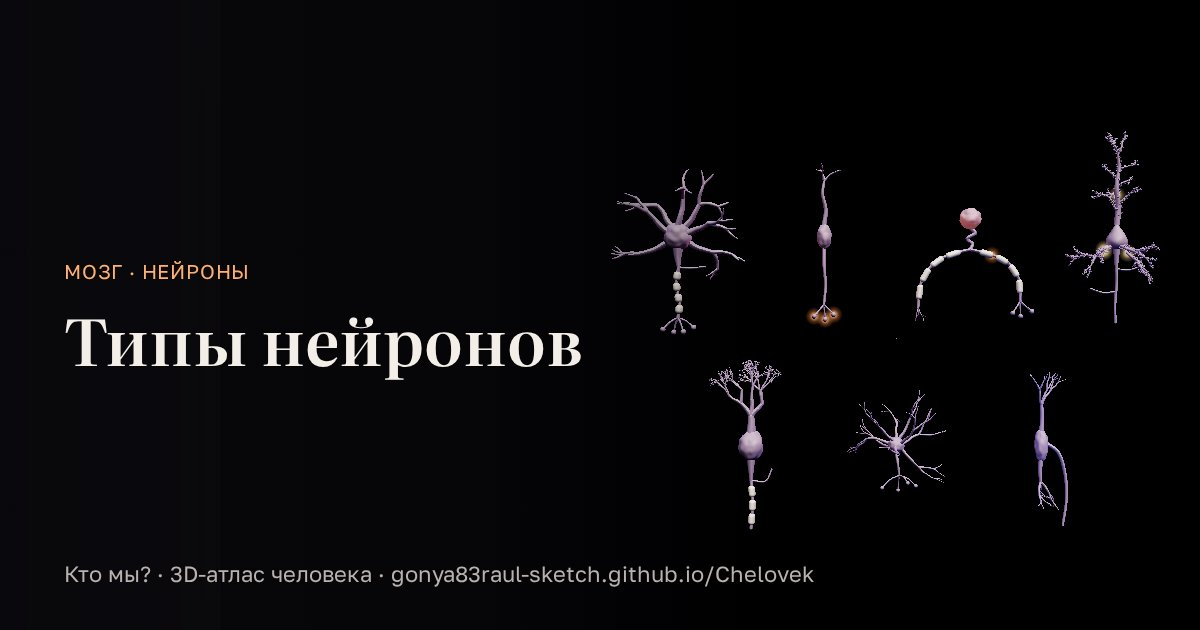
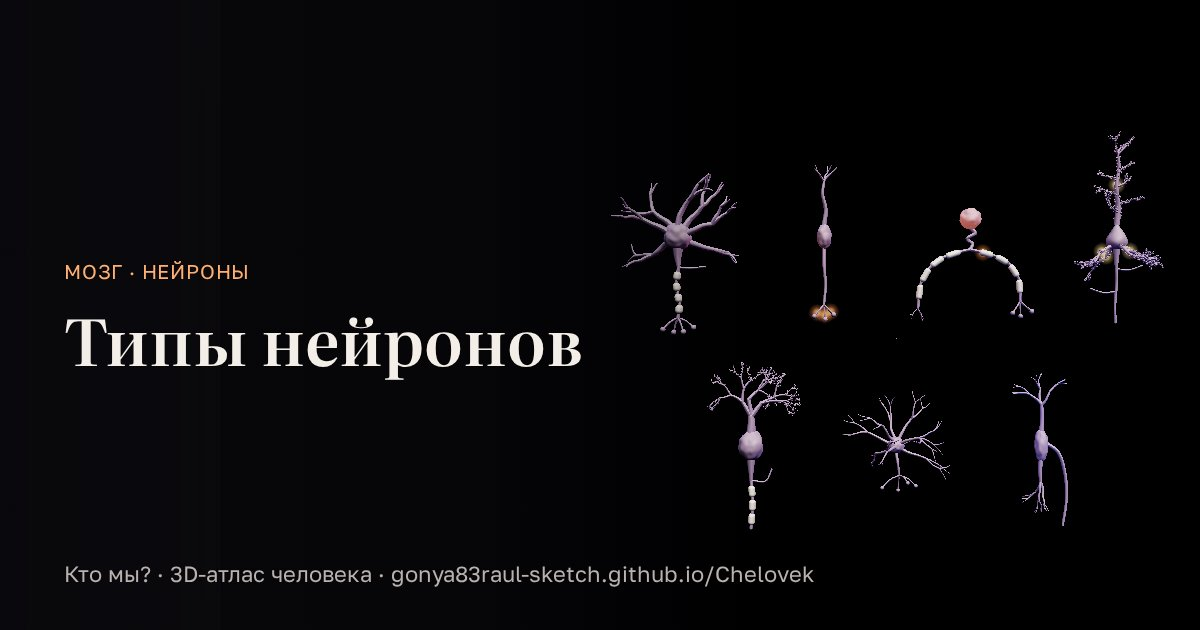
app40: партия r5b (mutations, fedfast, stem, types, vision), подписи у заголовка — только по строкам текста

diff --git a/bio/81_fedfast.js b/bio/81_fedfast.js
@@ -21,11 +21,11 @@ function makeFedfast() {
   om('brain', ell3(0.3, 0.25, 0.35, BODY.head), '#E0A0B8');
   om('liver', blobGeo(0.75, 0.42, 0.45, 5, 0.08, 4), '#B0523A', 0.5).position.set(-0.35, 1.55, 0.15);
   om('gut', tube(Array.from({ length: 14 }, (_, i) => V3(Math.sin(i * 1.3) * 0.45, 0.95 - i * 0.05, 0.2 + Math.cos(i * 1.3) * 0.15)), 0.09, 120, 8), '#E8A0A0');
-  om('fat', ell3(0.55, 0.3, 0.25, V3(0.95, 0.35, 0.3)), '#F2D08A', 0.38);
+  om('fat', ell3(0.55, 0.3, 0.25, V3(0.95, -0.1, 0.3)), '#F2D08A', 0.38);   /* ниже кишки — не лежит на ней */
   om('mus', tube([V3(-0.47, -0.3, 0.05), V3(-0.5, -1.2, 0.08), V3(-0.48, -2.0, 0.06)], 0.24), '#C0504A', 0.4);
   om('kid', ell3(0.14, 0.24, 0.12, V3(0.55, 1.15, -0.25)), '#A04A3A', 0.45);
   om('heart', ell3(0.22, 0.27, 0.2, BODY.heart), '#C84A50', 0.45);
-  const P = { brain: BODY.head.clone().add(V3(0, -0.2, 0.2)), liver: V3(-0.35, 1.55, 0.45), gut: V3(0, 0.75, 0.4), fat: V3(0.95, 0.35, 0.5), mus: V3(-0.5, -0.9, 0.3), kid: V3(0.55, 1.15, 0.1), heart: BODY.heart.clone().add(V3(0, 0, 0.2)) };
+  const P = { brain: BODY.head.clone().add(V3(0, -0.2, 0.2)), liver: V3(-0.35, 1.55, 0.45), gut: V3(0, 0.75, 0.4), fat: V3(0.95, -0.1, 0.5), mus: V3(-0.5, -0.9, 0.3), kid: V3(0.55, 1.15, 0.1), heart: BODY.heart.clone().add(V3(0, 0, 0.2)) };
   const C = { glu: '#F2C14E', fa: '#FFB070', ket: '#FF8AB0', aa: '#7FE0A0', lac: '#FF6A6A', gly: '#C8C8D0', tag: '#E8C060' };
   // поток: [откуда, куда, вещество, вес(s)] — s от 0 (еда) до 3 (длительный голод)
   const W = (pts) => (s) => { const i = Math.min(2, Math.floor(s)), f = s - i; return pts[i] + (pts[i + 1] - pts[i]) * f; };
@@ -53,7 +53,7 @@ function makeFedfast() {
   }
   const stateName = (s) => (s < 0.5 ? 'после еды' : s < 1.5 ? 'натощак 12 ч' : s < 2.5 ? 'голод 3 дня' : 'голод 3–6 нед.');
   function drawScope(ctx, w, h) {
-    const A = plotAxes(ctx, w, h, { title: 'кровь: глюкоза · кетоны · инсулин', xl: 'еда → 6 недель', yl: '' });
+    const A = plotAxes(ctx, w, h, { title: w < 260 ? 'глюкоза · кетоны · инсулин' : 'кровь: глюкоза · кетоны · инсулин', xl: 'еда → 6 недель', yl: '' });
     const curve = (arr, sc) => (u) => { const s = u * 3; const i = Math.min(2, Math.floor(s)), f = s - i; return (arr[i] + (arr[i + 1] - arr[i]) * f) / sc; };
     plotLine(ctx, A, curve([7.5, 4.8, 3.8, 3.6], 8), '#F2C14E'); plotLine(ctx, A, curve([0.05, 0.2, 3.0, 7.0], 8), '#FF8AB0'); plotLine(ctx, A, curve([1, 0.25, 0.1, 0.08], 1.1), '#7FD6FF', { lw: 1.4, dash: [4, 3] });
     const x = A.X(Math.min(3, st.s) / 3); ctx.strokeStyle = 'rgba(255,255,255,.5)'; ctx.beginPath(); ctx.moveTo(x, A.Y(0)); ctx.lineTo(x, A.Y(1)); ctx.stroke();
@@ -61,9 +61,9 @@ function makeFedfast() {
   }
   const ORG = { brain: '<b>Мозг</b> тратит ~20% энергии покоя, около 120 г глюкозы в сутки, и не может использовать жирные кислоты (они не проходят через гематоэнцефалический барьер). При голоде переходит на кетоновые тела.', liver: '<b>Печень</b> — распределительный центр: запасает и отдаёт глюкозу (гликоген, глюконеогенез), делает ЛПОНП и кетоновые тела, перерабатывает аминокислоты в мочевину. Сама при голоде живёт на жирных кислотах.', gut: '<b>Кишечник</b> всасывает продукты переваривания; его клетки сами питаются в основном глутамином.', fat: '<b>Жировая ткань</b> — главное хранилище энергии (ТАГ). Инсулин: запасает; глюкагон, адреналин: отдаёт жирные кислоты и глицерин. Ещё и эндокринный орган (лептин, адипонектин).', mus: '<b>Мышцы</b> — 40% массы тела. После еды запасают гликоген и строят белок; в покое и при голоде живут на жирных кислотах и кетонах; при длительном голоде их белок — резерв аминокислот для глюконеогенеза.', kid: '<b>Почки</b> при длительном голоде синтезируют до половины глюкозы и выводят аммиак, компенсируя кислотность кетоновых тел.', heart: '<b>Сердце</b> предпочитает жирные кислоты (до 70% энергии), легко использует лактат и кетоновые тела.' };
   const labels = [
-    { text: 'мозг', pos: V3(0.4, 4.5, 0), color: '#E0A0B8', show: () => st.labels }, { text: 'печень', pos: V3(-1.3, 1.6, 0.3), color: '#E07A5A', show: () => st.labels }, { text: 'кишка', pos: V3(0.3, 0.55, 0.6), color: '#E8A0A0', show: () => st.labels },
-    { text: 'жировая ткань', pos: V3(1.5, 0.3, 0.3), color: '#F2D08A', show: () => st.labels }, { text: 'мышцы', pos: V3(-1.3, -1.2, 0.2), color: '#C0504A', show: () => st.labels }, { text: 'почки', pos: V3(0.8, 1.2, 0.2), color: '#C07060', show: () => st.labels }, { text: 'сердце', pos: V3(0.55, 2.1, 0.3), color: '#C84A50', show: () => st.labels },
-    ...[['глюкоза', 'glu'], ['жирные кислоты', 'fa'], ['кетоновые тела', 'ket'], ['аминокислоты', 'aa'], ['лактат', 'lac'], ['жиры (ТАГ)', 'tag'], ['глицерин', 'gly']].map(([n, k], i) => ({ text: n, pos: V3(3.0, 3.6 - i * 0.42, 0), color: C[k], show: () => st.labels })),
+    { text: 'мозг', pos: V3(0.4, 4.5, 0), color: '#E0A0B8', show: () => st.labels }, { text: 'печень', pos: V3(-1.3, 1.6, 0.3), left: true, color: '#E07A5A', show: () => st.labels }, { text: 'кишка', pos: V3(0.3, 0.55, 0.6), color: '#E8A0A0', show: () => st.labels },
+    { text: 'жировая ткань', pos: V3(1.5, -0.1, 0.3), color: '#F2D08A', show: () => st.labels }, { text: 'мышцы', pos: V3(-1.3, -1.2, 0.2), color: '#C0504A', show: () => st.labels }, { text: 'почки', pos: V3(0.8, 1.2, 0.2), color: '#C07060', show: () => st.labels }, { text: 'сердце', pos: V3(0.55, 2.1, 0.3), color: '#C84A50', show: () => st.labels },
+    ...[['глюкоза', 'glu'], ['жирные кислоты', 'fa'], ['кетоновые тела', 'ket'], ['аминокислоты', 'aa'], ['лактат', 'lac'], ['жиры (ТАГ)', 'tag'], ['глицерин', 'gly']].map(([n, k], i) => ({ text: n, pos: V3(3.0, 3.6 - i * 0.42, 0), color: C[k], show: () => st.labels && !matchMedia('(max-width:700px)').matches })),   /* телефон: легенда веществ ложилась на тело — цвета объяснены в тексте */
   ];
   const refs = {};
   function ui(el) {

diff --git a/src_page.html b/src_page.html
@@ -2754,7 +2754,7 @@ function makeTypes() {
   }
   applyStain();
   return {
-    labelBg: true, mobZoom: 0.6, scene, camera, controls, update, ui, onKey, stats, labels, drawScope: null, accent: '#F5C26B',
+    labelBg: true, mobZoom: 0.66, scene, camera, controls, update, ui, onKey, stats, labels, drawScope: null, accent: '#F5C26B',
     kicker: 'Мозг · нейроны', title: 'Типы нейронов',
     lede: 'Семь форм нервных клеток и маленькая нейросеть. Можно покрасить их так, как это делали Гольджи и Ниссль, или раскрасить методом Brainbow.',
     notes: `
@@ -3762,7 +3762,7 @@ function makeVision() {
     lp('глаз', [-1.7, 0.15, 4.3], 'path'), lp('зрительный нерв', [-1.55, -0.95, 1.97], 'path'), lp('перекрёст (хиазма)', [0.05, -0.55, 0.94], 'path'),
     lp('зрительный тракт', [-1.25, -0.45, -0.21], 'path'), lp('латеральное коленчатое тело', [-1.45, 0.35, -0.85], 'path'), lp('зрительная лучистость', [-1.95, 1.45, -1.67], 'path'),
     lp('V1 правого полушария', [-1.4, 1.5, -4.3], 'path', VIS_FIELD_COL.L), lp('V1 левого полушария', [1.4, 1.5, -4.3], 'path', VIS_FIELD_COL.R),
-    lp('мышцы глаза', [1.66, 0.25, 3.0], 'path'), lp('мозжечок', [0.1, -2.6, -2.4], 'path'), lp('глазница', [2.9, -0.2, 4.6], 'path'),
+    ...(matchMedia('(max-width:700px)').matches ? [] : [lp('мышцы глаза', [1.66, 0.25, 3.0], 'path'), lp('мозжечок', [0.1, -2.6, -2.4], 'path')]),   /* телефон: меньше подписей — остальные не налезают */ lp('глазница', [2.9, -0.2, 4.6], 'path'),
     lp('роговица', [-1.85, 0.0, 4.36], 'eye'), lp('хрусталик', [-1.85, -0.25, 4.02], 'eye'), lp('стекловидное тело', [-1.85, -0.15, 3.55], 'eye'),
     lp('сетчатка', [-1.85, -0.95, 3.25], 'eye'), lp('зрительный нерв', [-1.85, -0.55, 2.75], 'eye'), lp('предмет', [RAY_X, AXIS_Y + 0.6, 7.0], 'eye'),
   ];
@@ -3825,7 +3825,7 @@ function makeVision() {
   }
   const lesUpd = update;
   const self = {
-    scene, camera, controls, ui, onKey, stats, labels, drawScope, accent: '#7FB8FF',
+    mobZoom: 0.72, scene, camera, controls, ui, onKey, stats, labels, drawScope, accent: '#7FB8FF',
     update(dt) { lesUpd(dt); const L = LES[st.lesion]; if (L.pos) { const o = st.lesion === 'chiasm' ? [0.45, -0.35, 0.2] : [0.3, 0.45, 0]; lesLabel.pos.set(L.pos[0] + o[0], L.pos[1] + o[1], L.pos[2] + o[2]); } lesionSpr.material.opacity = 0.7 + 0.3 * Math.sin(st.t * 5); },
     kicker: 'Органы чувств · зрение', title: 'Зрение',
     lede: 'Путь сигнала от сетчатки до затылочной коры и оптика глаза. Выберите повреждение и посмотрите, какая часть поля зрения пропадёт.',
@@ -5464,7 +5464,7 @@ function makeStem() {
     { text: 'мост', pos: V3(1.3, 0.2, 0.6), show: () => st.labels },
     { text: 'продолговатый мозг', pos: V3(0.8, -1.6, 0.6), show: () => st.labels },
     { text: 'спинной мозг', pos: V3(0.5, -2.85, 0.3), show: () => st.labels },
-    { text: 'таламус', pos: V3(-0.2, 3.05, 0.75), color: '#b9a4ff', show: () => st.labels },
+    { text: 'таламус', pos: V3(-0.2, 3.05, 0.75), color: '#b9a4ff', show: () => st.labels && !matchMedia('(max-width:700px)').matches },   /* телефон: висела в пустоте над стволом */
     { text: 'четверохолмие', pos: V3(-0.9, 1.5, 0.45), color: '#F2C14E', show: () => st.labels && (st.mode === 'floors' || st.mode === 'orient') },
     { text: 'ромбовидная ямка', pos: V3(-0.7, -0.4, 0.2), color: '#6fc3ff', show: () => st.labels && st.mode === 'floors' && !st.cere },
     { text: 'основание', pos: V3(1.05, -1.6, 0.3), color: '#FF7A6A', show: () => st.labels && st.mode === 'floors' },
@@ -5508,7 +5508,7 @@ function makeStem() {
   function stats() { if (st.mode === 'rf') return [['Дыхание', 15, 'в мин'], ['Пульс', 70, 'уд/мин']]; return [['Продолговатый', '≈4', 'см'], ['Мост', '2,5–3', 'см']]; }
   setMode('floors');
   const self = {
-    labelBg: true, mobZoom: 0.7, scene, camera, controls, update, ui, onKey, stats, labels, drawScope, accent: '#9FE0C0',
+    labelBg: true, mobZoom: 0.6, scene, camera, controls, update, ui, onKey, stats, labels, drawScope, accent: '#9FE0C0',
     kicker: 'Мозг · стволовые структуры', title: 'Ствол мозга',
     lede: 'Продолговатый и средний мозг — древние отделы, общие для всех позвоночных; мост как отдельный отдел есть только у млекопитающих. Здесь центры дыхания и сердца, сна и бодрствования, и все пути между мозгом и телом.',
     notes: `
@@ -10450,7 +10450,8 @@ function updateLabels() {
     if (!e || !e.offsetWidth) return; const r = e.getBoundingClientRect(); placed.push([r.left - sr.left - 4, r.top - sr.top - 2, r.right - sr.left + 4, r.bottom - sr.top + 2]);
   });
   // заголовок и описание: заняты только сами строки текста и кнопки, а не весь блок — справа от коротких строк подписи могут стоять
-  if (hudTtl && hudTtl.offsetWidth) { ttlRange.selectNodeContents(hudTtl); for (const r of ttlRange.getClientRects()) if (r.width > 1) placed.push([r.left - sr.left - 6, r.top - sr.top - 3, r.right - sr.left + 6, r.bottom - sr.top + 3]);
+  if (hudTtl && hudTtl.offsetWidth) { const tw = document.createTreeWalker(hudTtl, NodeFilter.SHOW_TEXT); let tn;   /* только строки текста: Range по элементу вернул бы и рамки целых блоков h1/p */
+    while ((tn = tw.nextNode())) { if (!tn.nodeValue.trim() || !tn.parentElement.offsetWidth) continue; ttlRange.selectNodeContents(tn); for (const r of ttlRange.getClientRects()) if (r.width > 1) placed.push([r.left - sr.left - 6, r.top - sr.top - 3, r.right - sr.left + 6, r.bottom - sr.top + 3]); }
     hudTtl.querySelectorAll('button, .hbtn').forEach((e) => { const r = e.getBoundingClientRect(); placed.push([r.left - sr.left - 4, r.top - sr.top - 2, r.right - sr.left + 4, r.bottom - sr.top + 2]); }); }
   LBC.base = placed.slice(); LBC.t = nowL; LBC.w = w; LBC.h = hgt;
   }

diff --git a/bio/74_mutations.js b/bio/74_mutations.js
@@ -9,7 +9,7 @@ function makeMutations() {
   rnd = mulberry(7401);
   const scene = bioStage({ rim: 0xff8ab0 });
   const DK = !matchMedia('(max-width:700px)').matches;   // компьютер: кадр уходит из-под заголовка и описания (телефон — прежний ракурс)
-  const VIEW = { mut: DK ? [V3(-2.9, 1.0, 0), V3(-2.5, 2.3, 22)] : [V3(-1.6, 1.0, 0), V3(-1.2, 2.2, 18)], sickle: [V3(38.4, -0.4, 0), V3(38.8, 1.6, 13)], ptm: [V3(78.8, -0.9, 0), V3(79.2, 1.0, 14.5)] };
+  const VIEW = { mut: DK ? [V3(-3.2, 0.1, 0), V3(-2.8, 1.4, 19.5)] : [V3(-0.56, 1.0, 0), V3(-0.16, 2.2, 12.1)], sickle: [V3(38.4, -0.4, 0), V3(38.8, 1.6, 13)], ptm: [V3(78.8, -0.9, 0), V3(79.2, 1.0, 14.5)] };
   const camera = new THREE.PerspectiveCamera(34, 1, 0.05, 300); camera.position.copy(VIEW.mut[1]);
   const controls = makeControls(camera, VIEW.mut[0]); controls.minDistance = 3; controls.maxDistance = 40;
   const fx = new Sparks(1800, 0.07); scene.add(fx.obj);
@@ -156,7 +156,7 @@ function makeMutations() {
     ubq: '<b>Убиквитин</b> (зелёные шарики) — метка «на уничтожение»: ферменты пришивают к лизину белка цепочку из нескольких убиквитинов, и <b>протеасома</b> (фиолетовая бочка) разрезает его на короткие пептиды. Так клетка убирает повреждённые и ненужные белки, регулирует клеточный цикл. Ингибитор протеасомы бортезомиб лечит миеломную болезнь.',
   };
   const labels = [
-    { text: 'ДНК (кодирующая цепь сверху)', pos: V3(X0 - 0.2, 2.65, 0.2), color: '#C8C8D0', show: () => st.labels && st.mode === 'mut' },
+    { text: 'ДНК (кодирующая цепь сверху)', pos: V3(X0 + 1.2, 2.85, 0.2), color: '#C8C8D0', show: () => st.labels && st.mode === 'mut' },
     { text: 'мРНК 5′ → 3′', pos: V3(X0 - 0.2, 1.2, 0.3), color: '#FF6FA8', show: () => st.labels && st.mode === 'mut' },
     { text: 'белок', pos: V3(X0 - 0.2, -0.85, 0.3), color: '#B8C4D8', show: () => st.labels && st.mode === 'mut' },
     { text: 'рибосома', pos: () => ribo.position.clone().add(V3(0.5, 1.6, 0.2)), color: '#8FB4E6', show: () => st.labels && st.mode === 'mut' && ribo.visible },

diff --git a/tools/build.py b/tools/build.py
@@ -75,7 +75,7 @@ ledes = [f'{t}: {mm["lede"]}' for t, mm in META.items() if 'lede' in mm]
 L0 = 'const TOPIC_LEDE = {}; // заполняет tools/build.py'
 assert page.count(L0) == 1
 page = page.replace(L0, 'const TOPIC_LEDE = { ' + ', '.join(ledes) + ' };', 1)
-APP = 'app39'   # меняется при каждой публикации со старой структурой кэша
+APP = 'app40'   # меняется при каждой публикации со старой структурой кэша
 # модели: сайт грузит models/<имя>.bin; если есть только старые .txt — перепаковать, без .bin сборку не выпускать
 MODELS = ['skeleton', 'muscles', 'vision', 'digest', 'repro']
 MDIR = os.path.join(ROOT, 'out', 'models')

diff --git a/review/score-r5b.md b/review/score-r5b.md
@@ -1,0 +1,93 @@
+# Оценка r5b — 5 сцен: mutations, fedfast, vision, stem, types
+
+Метод: снимки review/shots/r5b/<id>_d.jpg (1440×900) и _m.jpg (390×844), стартовый режим; код — bio/74_mutations.js, bio/81_fedfast.js, src_page.html (makeTypes 2387, makeVision 3593, makeStem 5260); оболочка — src_page.html (layout/setViewOffset 9860–9880, `updateLabels` 10430, `.ttl` 83–86). «Было» — из score-r4c.md (mutations, fedfast), score-r4d.md (vision), score-r4b.md (stem, types). Другие режимы не снимались — «(по коду)». Ничего не менял и не запускал. Числа px — по снимку, оценочные; «проверить» — правку надо сверить глазами. Подоценки даны долями (0–1): их сумма = среднее по пяти критериям шкалы 0–5, как в score-r5a.md.
+
+Камера и экранные сдвиги (проверено по коду):
+- mutations: камера смотрит вдоль −z (чуть правее/выше цели); вправо на экране = +x мира, «объект вправо» = УМЕНЬШИТЬ x цели (и x камеры на столько же). «Объект выше» = УМЕНЬШИТЬ y цели. На компьютере цель стоит на экране в (894, 423) независимо от значения (оболочка `DESK_SHIFT.bio = 0,5`, src_page.html:9849, 9869–9874); масштаб строки при z = 22 ≈ 53,5 px/ед. ДНК-ряды — 21 px друг от друга.
+- fedfast: так же вдоль −z (камера x +0,1, z 17,5); масштаб ≈ 65 px/ед.; цель −0,2 / −0,1 стоит в (898, ~426).
+- vision: камера в (+10; 6; 11), смотрит на тело спереди-слева; вправо на экране ≈ (0,75; 0; −0,66): «объект вправо» = x цели −, z цели +, камеру двигать на то же. Масштаб ≈ 80 px/ед.
+- stem: камера (−7,7; 3,1; 9,6), вправо на экране ≈ (0,78; 0; 0,63). Ствол стоит в (921, 352) независимо от цели — для раздела «Мозг» оболочка ставит цель сама (`DESK_SHIFT.brain = 1`: центр = 55 % ширины, z = 1,32), а в сцене включено `autoRotate` (`st.rot = true`), поэтому сдвигать цель вбок нельзя — ствол начнёт качаться относительно оси. Масштаб ≈ 72 px/ед.
+- types: вдоль −z (камера z 55, цель x −8,5 на компьютере, на телефоне 0 — `TPX`), масштаб ≈ 16 px/ед. (клетки 100–200 px).
+- mobZoom: МЕНЬШЕ = КРУПНЕЕ. У bio-сцен по умолчанию 0,7 (src_page.html:9865), у «Мозга» — 0,8 (9867); у mutations стоит 1,0.
+
+| сцена | оценка | было |
+|---|---|---|
+| vision | 3,5 | 3,0 |
+| mutations | 3,0 | 3,0 |
+| fedfast | 3,0 | 3,0 |
+| stem | 3,0 | 3,0 |
+| types | 3,0 | 3,0 |
+
+Среднее 3,10 (было 3,00).
+
+## Что изменилось с прошлого раза и что осталось
+
+Исправлено:
+- vision: модель теперь грузится (на снимке r4d её не было) и в стартовом кадре видны мозг, V1 цветом поля, волокна, глаза с мышцами; баг камеры r4d №1 внесён — `VSX` теперь и в `VIEWS.path` (стр. 3704), мозг правее описания и не уходит обратно через 2 с; «глаз» (55 px) больше не на кромке на телефоне.
+- fedfast: тело целиком ниже верха (стр. 15–16: камера `(0,1; 1,9; 17,5)`, цель `(-0,2; -0,1)`), «мозг» и «печень» видны (раньше пропадали под заголовком), манекен светлее (стр. 18 `rim: 0.3`), опечатка «кетоновыми телами» исправлена.
+- types: на телефоне цель камеры больше не уводит ряд за край (`TPX`, стр. 2392–2394, 2678) — пирамидный и мультиполярный видны, хотя и у самой кромки; `labelBg: true` и `mobZoom: 0.6` стоят (стр. 2757); ступенька подписей сохранилась.
+- stem: камера отодвинута, низ ствола над пультом (стр. 5264 `HOME` цель −0,85; низ ≈ 510 против пульта 558), спинной мозг укорочен, «спинной мозг» на стволе, заплатки срезов ножек темнее (`cutM`, стр. 5306).
+
+Не сдвинулось (то, что я указывал в r4b/r4c/r4d и что снова видно на снимках):
+- mutations: ни одна правка r4c не внесена — камера та же (стр. 12), метки `X0 − 0.2` без `left` (стр. 159–161), `mobZoom: 1.0` (стр. 207), буквы на телефоне 5,6 px, «ДНК (кодирующая цепь сверху)» на компьютере всё ещё не видна, рибосома — два «блина».
+- fedfast: жировая ткань на кишке (стр. 24, 28), «кишка» стоит на жире; легенда на телефоне налезает на тело и заголовок графика обрезан; потоки тонкие, подпись только цветом.
+- vision: орбита — яркая белая кость, самый светлый объект кадра (стр. 3625 `boneMat` непрозрачный); на телефоне 11 подписей в колонке по 12–15 px; у кадра справа 220 px пустоты.
+- stem: «таламус» (стр. 5467) на компьютере вне кадра, на телефоне висит в пустоте; правая колонка подписей без выносок; ствол узкий (180 из 646 px свободной зоны).
+- types: подписи на дендритах; миелин — «жемчуг» из шаров; псевдоуниполярный — дуга; слева-внизу пусто (340–870 × 340–650).
+
+Новые дефекты:
+- **оболочка, подписи под заголовком (стр. 10453):** `ttlRange.selectNodeContents(hudTtl).getClientRects()` по спецификации возвращает не только прямоугольники строк, но и рамки выбранных дочерних элементов — блока `h1` (340–820 × ~150–300, `.ttl` шириной 480) и `p` (340–770 × 305–395, `max-width:430px`, стр. 86). Все они попадают в `placed` целиком, и любая подпись с точкой в этих рамках пропадает, хотя строки текста короче. Так на компьютере пропала «ДНК (кодирующая цепь сверху)» (mutations), а оболочка не считает «свободным» правый край абзаца. Это по коду, в браузере не проверено; правка — внизу, «Сводка по оболочке».
+- **mutations, телефон:** строка 232 px при полосе 390 px и высоте полезной части 105 px из 505 — буквы 5,6 px; «ДНК (кодирующая цепь сверху)» (100–285) лежит на верхнем ряду.
+- **fedfast, телефон:** подписи легенды «жирные кислоты» (166–262, y 465) и «кетоновые тела» (173–262, y 480) оболочка поставила слева от точки — прямо на плечо/голову тела.
+- **types, телефон:** «Псевдоуниполярный» (130–258, y 450) лежит на верхнем дендрите биполярного нейрона (x 150, y 432–470); крайние клетки касаются кромок (мультиполярный 12–90, пирамидный 330–385).
+
+## mutations — 3,0/5 (точн. 1 · комп. 1 · 3D 0,5 · подп. 0,5 · тел. 0)
+Компьютер: строка ДНК/мРНК (x 780–1313, y 350–470) правее абзаца (до x 733), две цепи ДНК с кольцом-меткой мутации (1045, 350–420), мРНК, рибосома — голубой «блин» (850–910, y 405–440) с коричневым под ним (855–910, y 445–470), цепочка белка из двух бусин и подписи «Мет», «Вал», «белок». Счётчики «Изменено аминокислот 1», «Длина белка 13 из 13» верны, миссенс GAG→GTG в кодоне 7 по настоящему генетическому коду (позиции проверены в r4c). Минусы: вся сцена — 530×120 px при свободной зоне 640×420 (площадь ≈ 20 %), буквы 12–14 px, сверху 180 px пустого (160–340), снизу 100; «ДНК (кодирующая цепь сверху)» не показана (см. новый дефект оболочки), «мРНК 5′ → 3′» (777–860, y 417) в начале цикла лежит на рибосоме, «Мет» (795–830, y 502) на бусине, «белок» (777–825, y 523) под ней ступенькой; рибосома — «блины» без структуры (стр. 47–48), мРНК закрыта синим пятном. Телефон (mobZoom 1,0, строка 98–330 × 520–560): буквы 5,6 px — не читаются; полезная часть сцены 105 px из 505 (сверху 130, снизу 150 пусто); «ДНК (кодирующая цепь сверху)» (100–285, y 515) вплотную к верхнему ряду, «мРНК 5′ → 3′», «рибосома» и «Мет» наезжают на буквы.
+До 5/5:
+1. **(высокая)** Компьютер: строка крупнее и по центру свободной зоны. bio/74_mutations.js:12 `mut: DK ? [V3(-2.9, 1.0, 0), V3(-2.5, 2.3, 22)]` → `[V3(-3.2, 0.1, 0), V3(-2.8, 1.4, 19.5)]` (цель задана один раз — `VIEW.mut`, ею же пользуются `makeControls` на стр. 14 и `setMode`; x −2,9 → −3,2 = «вправо» на ≈ 16 px, y 1,0 → 0,1 = «вверх» на ≈ 55 px; камера ближе на 11 %: масштаб 53,5 → 60 px/ед., буквы 14 → 15 px, строка 533 → 600 px: x 786–1388, y 281–489). Правый край 1388 при кромке 1416 — запас 28 px; верх строки 281 ниже рамки заголовка (до ~300) только справа от x 826, поэтому подпись ДНК (п. 2) выносится вправо. Проверить: кольцо мутации (y ≈ 277) не попадает под цифры (до 165) — не попадает.
+2. **(высокая)** Метки: стр. 159 `{ text: 'ДНК (кодирующая цепь сверху)', pos: V3(X0 - 0.2, 2.65, 0.2), …` → `pos: V3(X0 + 1.2, 2.85, 0.2)` (x ≈ 859, y ≈ 258: правее рамки заголовка 820, над строкой, на 15 px; подпись 190 px кончается на 1050, «✕ выпал A» стоит в 1123 — не пересекаются). Стр. 160 `'мРНК 5′ → 3′'` `pos: V3(X0 - 0.2, 1.2, 0.3)` → `V3(X0 - 0.2, 1.3, 0.3)` (на 6 px выше ряда мРНК; в начале цикла подпись остаётся над рибосомой, которая на y 0,6–1,5 стоит ниже). Стр. 161 `'белок'` `pos: V3(X0 - 0.2, -0.85, 0.3)` → тот же `pos`, добавить `left: true` (текст слева от строки на x 725–770, y ≈ 480; «Мет» остаётся в 25 px от «белок» и не наезжает). Проверить, что «мРНК» после п. 1 (точка ≈ (774, 351)) не попадает в рамку абзаца (до y 398) — если попадает, оболочка переставит её вправо, как сейчас.
+3. **(высокая, телефон)** Строка крупнее без смены `mobZoom` (он общий для трёх режимов — «Серповидные клетки» и «Модификации» им не затронуть): стр. 12 телефонная ветка `[V3(-1.6, 1.0, 0), V3(-1.2, 2.2, 18)]` → `[V3(-0.56, 1.0, 0), V3(-0.16, 2.2, 12.1)]` (камера ближе в 1,49 раза: масштаб 23,3 → 34,8 px/ед., буква 5,6 → 8,4 px, строка 346 px — x 22–368, по центру; x цели −0,56 компенсирует сдвиг кадра `bioMob`, стр. 9865: у цели 5 % ширины влево; y 1,0 оставить — центр содержимого ≈ 568 при центре свободной зоны 560). Подпись ДНК: на телефоне `V3(X0 - 0.2, 2.8, 0.2)`; общий вариант п. 2 `X0 + 1.2` на телефоне даёт точку x ≈ 220 — подойдёт и там. Проверить глазами: «рибосома» и «мРНК» не на буквах, правый край «ACT» < 370.
+4. **(средняя)** Рибосома — не «блины» (крупное, 3D): взять 30S/50S из `ribo70`, как в bio/73_antibiotics.js:17 (`SC = 0.021`), малая — под мРНК, большая — над ней; в «Условностях» (стр. 215) оговорить масштаб. Если не делать: `rL.position.y` 1.15 → 1.45 (стр. 48) — мРНК (y 0,85) перестаёт быть под синим пятном; тогда подпись «рибосома» (стр. 162, `V3(0.5, 1.6, 0.2)`) → `V3(0.5, 1.95, 0.2)`.
+5. **(низкая, по коду)** «Серповидные клетки»: стр. 56 `het: rnd() < 0.5` — в стартовом «HbSS, кислород есть» все 16 клеток нормальные; `st.o2 = false` при входе в режим (в `setMode('sickle')`) — серпы видны с первого кадра. «Модификации белков» не менялись, режимы не снимались.
+
+## fedfast — 3,0/5 (точн. 1 · комп. 0,5 · 3D 0,5 · подп. 0,5 · тел. 0,5)
+Компьютер: силуэт (x 800–1010, y 110–555) целиком, мозг (885–925, 128–165) под верхом кадра на 20 px, печень, сердце, почки, кишка и жир; потоки цветом, легенда семи веществ справа (1105–1215, y 183–350), график «кровь: глюкоза · кетоны · инсулин» (1093–1392 × 458–578) над пультом, счётчики «Глюкоза 7,0 · Кетоны 0,1 · инсулин» верны. Биохимия точна (мозг не берёт жирные кислоты, печень — распределитель, кетоны к мозгу при голоде, лактат из мышц, почки → глюкоза мозгу). Прогресс с r4c: «мозг» и «печень» видны, мозг не срезан. Минусы: жировая ткань (935–1005, 380–420) лежит на кишке справа, и «кишка» (930–980, y 388) стоит прямо на ней; «печень» (825–875, y 317) — точка на левом краю органа, текст идёт поверх печени (835–935); потоки — нитки 2 px, подписей на них нет, легенда висит списком без связи с ними; органы — гладкие эллипсоиды/капсулы; под текстом слева пусто (340–800 × 345–580); в графике надписи «глюкоза» (1133–1167, y 474) и «кетоны» (1320–1350, y 476) вплотную под заголовком (y 467) — «кетоны» касается его конца. Телефон (mobZoom 0,7): тело 125–230 × 410–640, подписи читаются, но легенда из семи строк (166–333, y 450–535) налезает на плечо и голову — «жирные кислоты» и «кетоновые тела» оболочка ставит слева от точки (на тело); график (155–375 × 645–745) обрезает заголовок («кровь: глюкоза · кетоны · инс»), верх графика — в 5 px от стопы «мышцы» (150–170, 640).
+До 5/5:
+1. **(средняя)** Жир с кишки: bio/81_fedfast.js:24 `V3(0.95, 0.35, 0.3)` → `V3(0.95, -0.1, 0.3)`; стр. 28 `fat: V3(0.95, 0.35, 0.5)` → `V3(0.95, -0.1, 0.5)`; подпись стр. 65 `{ text: 'жировая ткань', pos: V3(1.5, 0.3, 0.3)` → `V3(1.5, -0.1, 0.3)` (жир уходит на 30 px вниз, верх 0,2 ниже низа кишки 0,3; «кишка» (y 379) остаётся над ним на ≈ 19 px, подпись «жировая ткань» (1010–1105, y 421) — не рядом с легендой, она кончается на y 350; потоки gut→fat и liver→fat удлинятся сами, они считаются от `P.fat`). Камеру не менять (цель задана один раз, стр. 16).
+2. **(средняя)** «Печень» от органа: стр. 64 печень `{ text: 'печень', pos: V3(-1.3, 1.6, 0.3), …` → добавить `left: true,` (текст слева от точки: x ≈ 780–822, y ≈ 310; абзац кончается на x 776 и y 345 — после правки оболочки (см. сводку) подпись видна; сейчас блок `p` до 776 × 398 её может переставить вправо — тогда остаётся как есть).
+3. **(высокая, телефон)** Легенду не показывать на телефоне: в начало `makeFedfast` добавить `const DK = !matchMedia('(max-width:700px)').matches;`, стр. 66 `show: () => st.labels` → `show: () => st.labels && DK` (цвет частиц и так объяснён в тексте; «глюкоза», «аминокислоты», «лактат» и остальные уходят из-под плеча). Заголовок графика: стр. 56 `title: 'кровь: глюкоза · кетоны · инсулин'` → `title: w < 260 ? 'глюкоза · кетоны · инсулин' : 'кровь: глюкоза · кетоны · инсулин'` (на телефоне 220 px).
+4. **(низкая)** График: стр. 60 `A.X(0.75)` для «кетоны» → `A.X(0.84)` (надпись правее конца заголовка), `A.Y(0.98)` у «глюкоза» → `A.Y(0.90)`.
+5. **(средняя)** Потоки читаются подписью: перед легендой строка `{ text: 'потоки между органами', pos: V3(3.0, 4.05, 0), color: '#C8C8D0', show: () => st.labels && DK }` и толще трубки: стр. 38 в `TubeGeometry(c, 40, 0.022, 6)` → `0.032` (нитки 2 → 3 px; проверить, что на густых потоках печень → мозг не сливаются).
+6. **(по коду, крупное, 3D)** Печень — `blobGeo` без долей, мышцы — одна капсула, кишка — труба: взять печень из `bodyShell` раздела «Тело»; мышцы — пучок из трёх труб со сдвигом ±0,06.
+
+## vision — 3,5/5 (точн. 1 · комп. 0,5 · 3D 1 · подп. 0,5 · тел. 0,5)
+Компьютер: настоящая модель — стеклянный мозг (715–1190 × 150–520), V1 цветом поля (бирюзовый и сиреневый), голубые волокна от глаза через хиазму, тракт, латеральное коленчатое тело и лучистость к V1, глаза с красными мышцами (830–890 × 480–550), орбита; подписи одиннадцать, на подложке, колонкой над путём: «зрительный нерв» (805–920, y 437), «перекрёст (хиазма)» (912–1040, 409), «зрительный тракт» (905–1020, 382), «латеральное коленчатое тело» (915–1110, 333), «зрительная лучистость» (925–1075, 266), V1 правого и левого (1020–1277, 245–266); схема полей (1092–1392 × 500–620) верна. Анатомия точна: правая сторона тела — −x, левое поле зрения — в правую V1, подписи V1 перекрёстны. Описание не лежит на модели (последняя строка до 765, мозг начинается 790 в этой строке — зазор 25 px). Минусы: орбита — самая светлая и ровная деталь кадра (680–970 × 375–610), «рог» тянет взгляд мимо мозга; мозг упирается в врезку полей — мозжечок (1010–1140 × 440–520) в 20 px над ней (500), «мозжечок» (1020–1095, y 463) тоже; справа от мозга пусто (1190–1416 × 160–490 ≈ 220×330 px); часть подписей лежит поверх волокон («латеральное коленчатое тело» — на V1 и лучистости). Телефон (0,8): мозг 55–360 × 395–610, вся сцена в кадре; 11 подписей колонкой по 12–15 px (x 130–352, y 441–588): «V1 левого полушария» (157–285, y 477) и «зрительная лучистость» (192–320, y 465) стоят вплотную, «зрительный тракт» (183–290, y 510) на «латеральное коленчатое тело» (190–352, y 497); «мышцы глаза» (165–248, 568), «глазница» (148–220, 582), «мозжечок» (240–300, 588) — для телефона лишние; пусто сверху (360–395) и снизу (610–645) по 35 px, вокруг модели.
+До 5/5:
+1. **(средняя)** Орбита мягче: src_page.html:3625 `const boneMat = new THREE.MeshPhysicalMaterial({ color: 0xd9c7a6, roughness: 0.62, …` → добавить `transparent: true, opacity: 0.5, depthWrite: false` (кость становится тёмным контуром, глаза и мышцы видны, белое пятно перестаёт перетягивать внимание; подпись «глазница» привязывается к геометрии по вершинам, стр. 3647–3651, — от материала не зависит). V1: стр. 3626 `opacity: 0.55` → `0.42`, `emissiveIntensity: 0.08` → `0.14` (вспышка волны остаётся).
+2. **(средняя)** Мозг вправо и вверх — из-под абзаца и от врезки. Сдвиг идёт тремя одинаковыми выражениями: стр. 3598 (камера), 3599 (цель `makeControls`) и 3704 (`VIEWS.path`) — менять все три. Было `10 - 0.45 * VSX, 6, 11 + 0.4 * VSX` / `-0.45 * VSX, -0.4, -0.3 + 0.4 * VSX`, стало `10 - 1.0 * VSX, 5.7, 11 + 0.9 * VSX` / `-1.0 * VSX, -0.4 - 0.3 * VSX, -0.3 + 0.9 * VSX` (экранный сдвиг вправо ещё на ≈ 60 px — мозг 775–1250, зазор до абзаца 45 px; вверх на ≈ 24 px — мозжечок 496 при врезке 500; «V1 левого полушария» (1200–1337) в кадре). Вниз/вверх относительно врезки — «проверить глазами»: низ мозжечка не должен коснуться верха врезки (500) — если коснётся, цель y −0,7 → −0,85. `VIEWS.eye` не менять.
+3. **(средняя, телефон)** Подписи реже и модель крупнее: стр. 3765 `lp('мышцы глаза', …, 'path')`, `lp('мозжечок', …, 'path')` — добавить параметр: `show: () => st.labels && … && !matchMedia('(max-width:700px)').matches` (в `lp` добавить аргумент `desk`: `show: () => st.labels && (!desk || !MOB) && …`; `const MOB = matchMedia('(max-width:700px)').matches;` в начало `makeVision`) — на телефоне остаётся 9 подписей; `mobZoom` у vision не задан (по умолчанию 0,8 для «Мозга») → в `self` (стр. 3827) добавить `mobZoom: 0.72` (модель 305 → 340 px: x 37–377, подписи разойдутся на 11 %: «V1 левого» и «зрительная лучистость» с 12 до 14 px; верх ≈ 383 при цифрах до 360, низ 622 при врезке 645).
+4. **(низкая)** «Латеральное коленчатое тело» (стр. 3763, `[-1.45, 0.35, -0.85]`) — на компьютере 195 px; сократить до «латер. коленчатое тело» на телефоне нельзя без перевода: либо оставить, либо `left: true` в `lp` (добавить 5-й аргумент и передать `true` — подпись уходит левее на пустое поле над глазами; проверить, что не ложится на «зрительная лучистость» (y 266, 67 px выше) и абзац (до x 765, y 270)).
+5. **(по коду)** «Глаз в разрезе» (`VIEWS.eye` `V3(-6.4, 0.2, 3.9)` / `V3(-1.8, -0.5, 3.75)`) не снимался; после сдвига оболочки цель не зависит от `VSX`, поэтому глаз стоит там же — проверить, что он не под описанием.
+
+## stem — 3,0/5 (точн. 1 · комп. 0,5 · 3D 0,5 · подп. 0,5 · тел. 0,5)
+Компьютер: ствол (x 825–1010, y 125–510) с тремя этажами — красное основание, зелёная покрышка, жёлтая крыша, мост-валик справа, ножки мозжечка, ромбовидная ямка (синяя), синие пучки, подписи двумя колонками: слева «крыша», «четверохолмие», «ножки мозжечка», «ромбовидная ямка», «ядра черепных нервов»; справа «средний мозг», «мост», «основание», «продолговатый мозг», «покрышка», «спинной мозг». Нижний срез над пультом (510 против 558), счётчики «≈4 см» и «2,5–3 см» верны. Анатомия верна: мост как отдел млекопитающих, пирамиды, оливы, четверохолмие. Минусы: ствол узкий — 180 из 646 px свободной зоны, справа от подписей (1130–1416) и слева (340–825 ниже текста) пусто; «таламус» (стр. 5467, y 3,05) выше кадра — подписи нет, сами таламусы под верхом холста (над 93); подписи справа в 20–40 px от модели, без выносок («средний мозг» 1016–1106, ствол кончается на 985); две жёлтые подписи «крыша» (850–905, y 154) и «четверохолмие» (890–1000, y 201) в 47 px; «ядра черепных нервов» (912–1056, y 431) лежит на нижней части ствола и в 22 px над «покрышка» (958–1030, y 453); серые круги срезов ножек (905,262; 970,330; 908,380) всё ещё «заплатки», хотя темнее. Телефон (0,7): ствол 135–245 × 395–630 (235 px) при свободных 360–750 — снизу 130 px пусто; «таламус» (213–268, y 353) висит в пустоте справа от цифры «Мост 2,5–3 см» (117–175, y 352) и читается как третий счётчик; «ножки мозжечка» (155–250, y 468) и «ядра черепных нервов» (50–175, y 548) на модели.
+До 5/5:
+1. **(средняя, телефон)** Крупнее: src_page.html:5511 `mobZoom: 0.7` → `0.6` (ствол 235 → 275 px: y 375–650; верх 375 при цифрах до 360 — проверить, подписи расходятся на 17 % и справа укладываются: «средний мозг» (≈ 290–345) < 384).
+2. **(средняя)** «Таламус»: стр. 5299 `glassMat(0xb9a4ff, { rim: 0.5, base: 0.012, pow: 1.8 })` → `{ rim: 0.85, base: 0.06, pow: 1.8 }` (сиреневая «шапка» видна), подпись стр. 5467 `pos: V3(-0.2, 3.05, 0.75)` → `V3(-0.2, 2.55, 0.75)` и `show: () => st.labels && !MOB` (`const MOB = matchMedia('(max-width:700px)').matches;` в начало `makeStem`). Тогда на телефоне пропадает «третий счётчик»; на компьютере подпись попадает на y ≈ 107 (верх кадра 93; шапка таламусов обрезана верхом — это допустимо, как контекст). Альтернатива, если шапка у верха кадра не нравится, — убрать подпись совсем: ствол вместе с таламусами в кадр на компьютере не влезает без отдаления камеры (×1,2 = ствол 385 → 320 px), и это дороже, чем выигрыш.
+3. **(низкая)** «Ядра черепных нервов» не поверх ствола: стр. 5477 добавить `left: true` — текст идёт на свободное поле слева (x ≈ 765–905, y 431), «покрышка» остаётся справа; конфликтов с «ромбовидная ямка» (893–1015, y 342) нет (89 px). Дополнительно «крыша» и «четверохолмие» (обе жёлтые) на компьютере разнести цветом: «крыша» `color: '#F2C14E'` → `'#FFE08A'` (светлее) — тогда видно, что это этаж, а не структура.
+4. **(низкая)** Правая колонка ближе к модели (r4b №4, не внесено): `средний мозг` стр. 5463 `V3(0.9, 1.6, 0.8)` → `V3(0.75, 1.6, 0.5)`; `мост` `V3(1.3, 0.2, 0.6)` → `V3(1.15, 0.2, 0.4)`; `продолговатый мозг` `V3(0.8, -1.6, 0.6)` → `V3(0.6, -1.6, 0.4)`. Камера вращается (`st.rot`) — на разных углах подпись будет то слева, то справа: проверить, что «мост» (x 1,15) не заходит на валик (он до x ≈ 1,0 в профиль).
+5. **(крупное, 3D)** Ствол — одна гладкая оболочка: оливы и пирамиды — смещения вершин (стр. ≈ 5287), едва читаются; IV желудочек светлее. Не делать до п. 1–4.
+
+## types — 3,0/5 (точн. 1 · комп. 0,5 · 3D 0,5 · подп. 0,5 · тел. 0,5)
+Компьютер: семь форм 4 + 3, x 790–1390, y 205–605; мультиполярный (790–905) не касается описания (733), пирамидный целиком (верх 205 при цифрах до 160), нижний ряд по центру верхнего (875–1230 против 790–1330), подписи под сомой справа, счётчики «7» и «5–100 мкм» верны, пульт 655. Минусы: клетки малы — 100–200 px при 16 px/ед.; вся сцена правее центра, под текстом слева пусто (340–870 × 340–650 ≈ 530×310) — но шире нельзя: верхний ряд занимает 790–1330 (+подпись «Пирамидный» до 1391 при кромке 1416); подписи у сомы лежат на дендритах: «Мультиполярный» (861–972, y 324) на ветвях (860–905), «Клетка Пуркинье» (934–1046, y 536) на дереве (875–965), «Звёздчатый» (1081–1160, 536) на дендритах, «Пирамидный» (1305–1391, 324) на базальных дендритах — спасает подложка `labelBg` (стр. 2757); миелин — бусины крупнее аксона, псевдоуниполярный — дуга с шарами вместо Т-ветви. Телефон (mobZoom 0,6): все семь форм в кадре, 12–385 × 405–670, подписи не ложатся на соседние клетки в нижнем ряду; но крайние клетки у самой кромки (мультиполярный 12–90 и пирамидный 330–385, дендриты обрезаны), «Псевдоуниполярный» (130–258, y 450) на верхнем дендрите биполярного (x 150, y 432–470), клетки 70–90 px.
+До 5/5:
+1. **(средняя, телефон)** Всё в кадр: src_page.html:2757 `mobZoom: 0.6` → `0.66` (клетки меньше на 9 %: ряд 8–392 → 20–380, запас 15–20 px с каждой стороны; высота 265 → 240 px — сверху остаётся 50 px, снизу 90). `TPX` (стр. 2392–2394, 2678) не менять — ряд уже по центру.
+2. **(средняя, телефон)** «Псевдоуниполярный» не на соседе: стр. 2716 `text: c.def.name` → `text: TPX && c.def.id === 'pseudo' ? 'Псевдоуниполяр.' : c.def.name` (128 → 95 px; в EN — «Pseudounipolar» без изменений: добавить пару в data/i18n/en/ ключ новой русской строки; при левом выводе текст 155–250 касается дендрита x 150 — «проверить»; если касается, смещение подписи для этой клетки на телефоне `V3(0.3, -0.9, 0.3)`).
+3. **(низкая)** Подписи у «Мультиполярный» и «Клетка Пуркинье» с дендритов: стр. 2716 смещение `V3(1.1, -0.9, 0.3)` для `multi` → `V3(1.9, -1.6, 0.3)` (ниже и правее ветвей: подпись x 905–1015, y 340; не дальше соседнего «Биполярный» (1008)); для `purk` `V3(1.1, -0.9, 0.3)` → `V3(1.6, -1.6, 0.3)` (x 930–1040, y 548; клетка Пуркинье → «Звёздчатый» (1081) — 41 px). «Проверить»: подписи нижнего ряда остаются над пультом (655) — y 548 + 12 → 560 ✓.
+4. **(средняя, крупное, 3D)** Миелин: стр. 2437+ `myelinate(c, ax2, 0.06, 0.94, 4, 0.24)` — сегменты в 1,8 раза длиннее, радиус 1,6 × аксона, стыки скруглить; псевдоуниполярный (≈ стр. 2511) — один отросток от сомы с Т-ветвлением вместо дуги.
+5. **(низкая)** Нижний ряд: оставить по центру верхнего (`org`, стр. 2473 `(i - 5) * SP`) — сдвиг в колонки (`i - 5.5`) только занимает пустое слева (−74 px), но ломает симметрию и сбивает подписи; не рекомендую.
+
+## Сводка по оболочке (src_page.html)
+1. **(средняя)** Стр. 10453 `ttlRange.selectNodeContents(hudTtl); for (const r of ttlRange.getClientRects())` — в список «занятого» попадают рамки блоков `h1` (до 820 px по ширине) и `p` (до 770), а не только строки текста: подпись, чья точка в этих рамках, молча пропадает (mutations: «ДНК (кодирующая цепь сверху)»; r4c — «адреналин», «печень», «мозг»). Правка: брать только текстовые узлы — `const w = document.createTreeWalker(hudTtl, NodeFilter.SHOW_TEXT); for (let n; (n = w.nextNode());) { ttlRange.selectNodeContents(n); for (const r of ttlRange.getClientRects()) … }` (по коду, в браузере не проверено — после правки пересмотреть подписи, которые раньше прятались: на «Мозге» их ≈ 10 сцен).
+2. Для «Мозга» оболочка ставит цель на экране в (55 % ширины, ~352 px) и приближение 1,32 — стволу (stem) нельзя сдвигать цель вбок из-за `autoRotate`; если нужен сдвиг, использовать `deskShift` сцены (`s.deskShift ?? 1`, стр. 9872): 1,3 → центр правее на 1,3 × 5 % ширины ≈ 17 px — не стоит риска.
+3. На телефоне `mobZoom` общий для всех режимов сцены (стр. 9865–9867, считается при `layout()`, режим не пересчитывает). Если режимы сцены задают разные кадры (mutations: «Точечные мутации», «Серповидные клетки», «Модификации»), крупный план для одного режима надо делать камерой (`VIEW[mode]`), а не `mobZoom` — как предложено у mutations п. 3.

diff --git a/CONTINUE.md b/CONTINUE.md
@@ -1,6 +1,6 @@
 # Продолжение доводки сцен — инструкция для нового сеанса Claude
 
-Состояние на 29.10.2026, ночь: на сайте **app39** (app38 + лёгкий режим С1, С7–С9). См. NOTES.md «app38», «app39».
+Состояние на 29.10.2026, ночь: на сайте **app40** (app39 + партии r5a, r5b, подписи у заголовка). См. NOTES.md «app38»–«app40».
 
 ## 1. Подготовка (машина та же, домашняя папка сохранилась)
 ```sh
@@ -56,7 +56,7 @@ SEO — по review/seo.md (код: tools/build.py — head_tags, topic_ld, shor
 - Вручную (пользователь): отправить sitemap в Google Search Console и Яндекс.Вебмастер (robots.txt в подпапке не работает).
 3D: в src_page.html внесены (не проверены сборкой/sweep, если ниже не отмечено) Б1 (стекло с нулевым вкладом не рисуется — цикл в frame), Б2 (forceSinglePass у аддитивного стекла), Б3 (antialias:false), Б4 частично (карта теней 1024 на телефоне; autoUpdate не трогал), Б5 (dispose света и InstancedMesh), Б6 (не рисовать под #heartpanel, закрывать её в activate), Б7 (статистика только при изменении), Б8 (DPR телефона 1,25). С2 (на паузе — кадр только при действиях пользователя, иначе 1 к/с). Собрано, sweep 74/74 OK, снимки brain/heart/digest в порядке.
 Превью: tools/ogshots.py (+ ogcache/, build.py og_img) — сделан, снимки всех тем; проверить глазами выборку.
-**Сделано и опубликовано в app38:** С2–С5, правки рецензии 3d-check. **С1 лёгкий режим — опубликован в app39** (GFX high/mid/low: автоопределение + замер FPS, ?gfx=low|mid|high|auto; рецензия review/gfx-check.md, высокие исправлены; webdriver → high, поэтому sweep/снимки как раньше). Не сделано из С1: переключатель качества в интерфейсе (нужна кнопка «Настройки» всегда + строки RU/EN), brainKit по ступени, applyStain на low. С7–С9 тоже в app39. Партия r5a (glycogen, glycolysis, krebs, amines, express, adrenal) — правки внесены в source, не опубликованы (NOTES «партия r5a»). **Следующий шаг:** r5b — mutations, fedfast, vision, stem, types (снимки → рецензент → правки), затем публикация app40; затем прежний план доводки сцен. Старый план шага был: 3D С5 (compileAsync до activate), С3 (сердце: меньше материалов), С4 (мозг: пути в одну геометрию), С1 (лёгкий режим, раздел 6 отчёта) — каждое с sweep и снимками; затем рецензент 3D (sonnet) и публикация партии app38 (всё накопленное: r4e/r4f, SEO, превью, 3D). После публикации — проверить превью в @WebpageBot.
+**Сделано и опубликовано в app38:** С2–С5, правки рецензии 3d-check. **С1 лёгкий режим — опубликован в app39** (GFX high/mid/low: автоопределение + замер FPS, ?gfx=low|mid|high|auto; рецензия review/gfx-check.md, высокие исправлены; webdriver → high, поэтому sweep/снимки как раньше). Не сделано из С1: переключатель качества в интерфейсе (нужна кнопка «Настройки» всегда + строки RU/EN), brainKit по ступени, applyStain на low. С7–С9 тоже в app39. Партии r5a и r5b опубликованы в app40. **Следующий шаг:** r5c — переоценить сцены тела после r4e/r4f (referred, kidney, endo, shealth, planes, blood, immune) и проверить, не налезают ли теперь подписи у заголовка (их стало больше после правки оболочки в app40); затем прежний план доводки сцен. Старый план шага был: 3D С5 (compileAsync до activate), С3 (сердце: меньше материалов), С4 (мозг: пути в одну геометрию), С1 (лёгкий режим, раздел 6 отчёта) — каждое с sweep и снимками; затем рецензент 3D (sonnet) и публикация партии app38 (всё накопленное: r4e/r4f, SEO, превью, 3D). После публикации — проверить превью в @WebpageBot.
 3D — по review/3d-perf.md, раздел 7: быстрые Б1–Б8 → С2 (рендер по требованию) → С1 (лёгкий режим) → С3–С5. Проверка: sweep + снимки; рецензент; затем публикация партии (app38) вместе с накопленным.
 
 ### Прежний план доводки сцен (после SEO и 3D)

diff --git a/NOTES.md b/NOTES.md
@@ -311,3 +311,10 @@ C. Новые темы (п.1 ниже + сверить оглавление data
 - glycogen: GX −2,4, mobZoom 0,52, «гликогенин» указывает на ядро; «Условности»: «каждый шарик» вместо «шестиугольной пластинки» (+EN в b06/b27).
 - adrenal: DX 1,5, на телефоне шире столбцы (×1,5), надпочечники в «Стрессе» крупнее.
 - Не сделано: заголовок под кнопкой «поделиться» на телефоне (оболочка), короткие строки врезки krebs при узкой ширине, SHORT-названия adrenal.
+
+## app40 (29.10, ночь) — опубликовано
+- Партия r5a (см. выше) и r5b (review/score-r5b.md: vision 3,5; mutations, fedfast, stem, types 3,0):
+  - mutations: кадр ДНК крупнее и в центре свободной зоны (компьютер), на телефоне строка на всю ширину; подпись «ДНК» правее.
+  - fedfast: жировая ткань ниже кишки; «печень» слева; на телефоне без легенды веществ (ложилась на тело), короткий заголовок графика.
+  - stem mobZoom 0,6, types 0,66, vision 0,72; на телефоне скрыты «таламус» (stem), «мышцы глаза» и «мозжечок» (vision).
+- Оболочка: занятые места заголовка для подписей — только строки текста (TreeWalker); раньше рамки блоков h1/p прятали подписи по всему атласу. Подписей в сценах стало заметно больше — следить при следующих снимках.
